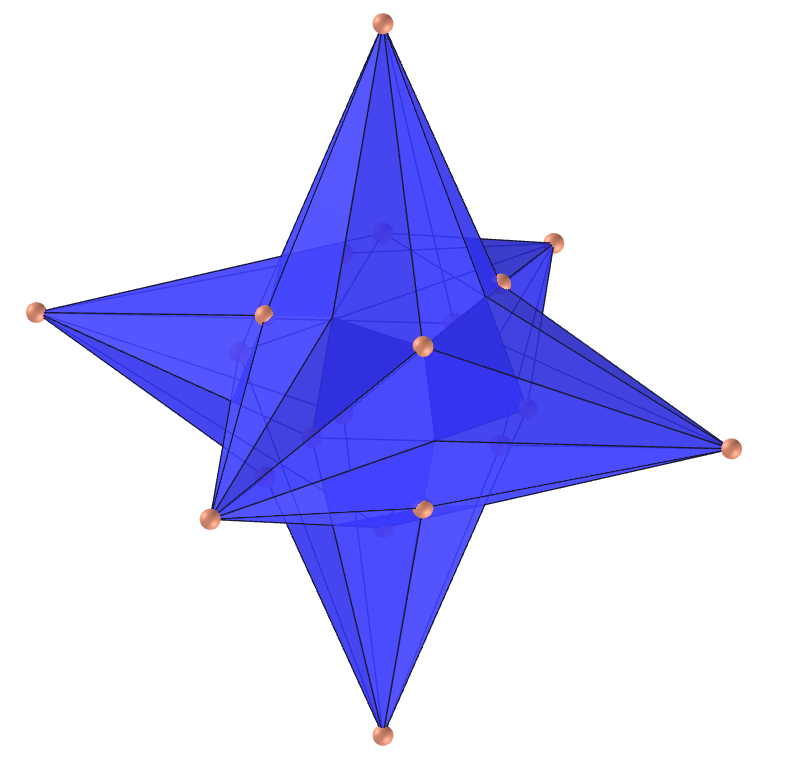
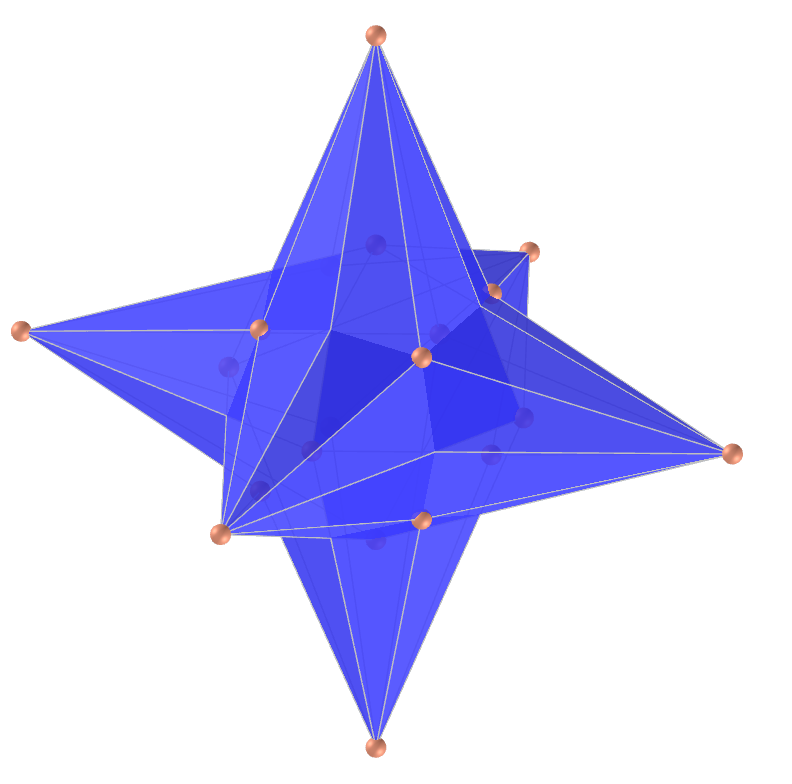
update

diff --git a/vr/medial_deltoidal_hexecontahedron.htm b/vr/medial_deltoidal_hexecontahedron.htm
@@ -57,6 +57,23 @@
 			<a-sphere mixin='esfera mtl9' position='0.6708204 1.0854102 -0.4145899'></a-sphere>
 			<a-sphere mixin='esfera mtl9' position='0.6708204 -1.0854102 0.4145899'></a-sphere>
 			<a-sphere mixin='esfera mtl9' position='0.6708204 -1.0854102 -0.4145899'></a-sphere>
+			<a-sphere mixin='esfera mtl9' position='-0.6708204 1.0854102 0.4145899'></a-sphere>
+			<a-sphere mixin='esfera mtl9' position='-0.6708204 1.0854102 -0.4145899'></a-sphere>
+			<a-sphere mixin='esfera mtl9' position='-0.6708204 -1.0854102 0.4145899'></a-sphere>
+			<a-sphere mixin='esfera mtl9' position='-0.6708204 -1.0854102 -0.4145899'></a-sphere>
+			<a-sphere mixin='esfera mtl9' position='0.6496271 0.0 1.0511187'></a-sphere>
+			<a-sphere mixin='esfera mtl9' position='0.6496271 0.0 -1.0511187'></a-sphere>
+			<a-sphere mixin='esfera mtl9' position='-0.6496271 0.0 1.0511187'></a-sphere>
+			<a-sphere mixin='esfera mtl9' position='-0.6496271 0.0 -1.0511187'></a-sphere>
+			<a-sphere mixin='esfera mtl9' position='1.0511187 0.6496271 0.0'></a-sphere>
+			<a-sphere mixin='esfera mtl9' position='1.0511187 -0.6496271 0.0'></a-sphere>
+			<a-sphere mixin='esfera mtl9' position='-1.0511187 0.6496271 0.0'></a-sphere>
+			<a-sphere mixin='esfera mtl9' position='-1.0511187 -0.6496271 0.0'></a-sphere>
+			<a-sphere mixin='esfera mtl9' position='0.0 1.0511187 0.6496271'></a-sphere>
+			<a-sphere mixin='esfera mtl9' position='0.0 1.0511187 -0.6496271'></a-sphere>
+			<a-sphere mixin='esfera mtl9' position='0.0 -1.0511187 0.6496271'></a-sphere>
+			<a-sphere mixin='esfera mtl9' position='0.0 -1.0511187 -0.6496271'></a-sphere>
+			<a-sphere mixin='esfera mtl9' position='0.0 0.0 1.3416408'></a-sphere>
 		</a-entity>
 		
 		<a-entity camera="fov:1; near:1;" orbit-controls="target: 0 0 0; maxPolarAngle: 90; minDistance: 0.5; initialPosition: 100 300 650"></a-entity>

diff --git a/selfintersect.html b/selfintersect.html
@@ -1528,6 +1528,23 @@
 			<a-sphere mixin='esfera mtl9' position='0.6708204 1.0854102 -0.4145899'></a-sphere>
 			<a-sphere mixin='esfera mtl9' position='0.6708204 -1.0854102 0.4145899'></a-sphere>
 			<a-sphere mixin='esfera mtl9' position='0.6708204 -1.0854102 -0.4145899'></a-sphere>
+			<a-sphere mixin='esfera mtl9' position='-0.6708204 1.0854102 0.4145899'></a-sphere>
+			<a-sphere mixin='esfera mtl9' position='-0.6708204 1.0854102 -0.4145899'></a-sphere>
+			<a-sphere mixin='esfera mtl9' position='-0.6708204 -1.0854102 0.4145899'></a-sphere>
+			<a-sphere mixin='esfera mtl9' position='-0.6708204 -1.0854102 -0.4145899'></a-sphere>
+			<a-sphere mixin='esfera mtl9' position='0.6496271 0.0 1.0511187'></a-sphere>
+			<a-sphere mixin='esfera mtl9' position='0.6496271 0.0 -1.0511187'></a-sphere>
+			<a-sphere mixin='esfera mtl9' position='-0.6496271 0.0 1.0511187'></a-sphere>
+			<a-sphere mixin='esfera mtl9' position='-0.6496271 0.0 -1.0511187'></a-sphere>
+			<a-sphere mixin='esfera mtl9' position='1.0511187 0.6496271 0.0'></a-sphere>
+			<a-sphere mixin='esfera mtl9' position='1.0511187 -0.6496271 0.0'></a-sphere>
+			<a-sphere mixin='esfera mtl9' position='-1.0511187 0.6496271 0.0'></a-sphere>
+			<a-sphere mixin='esfera mtl9' position='-1.0511187 -0.6496271 0.0'></a-sphere>
+			<a-sphere mixin='esfera mtl9' position='0.0 1.0511187 0.6496271'></a-sphere>
+			<a-sphere mixin='esfera mtl9' position='0.0 1.0511187 -0.6496271'></a-sphere>
+			<a-sphere mixin='esfera mtl9' position='0.0 -1.0511187 0.6496271'></a-sphere>
+			<a-sphere mixin='esfera mtl9' position='0.0 -1.0511187 -0.6496271'></a-sphere>
+			<a-sphere mixin='esfera mtl9' position='0.0 0.0 1.3416408'></a-sphere>
 		</a-entity>
 	</a-marker>
 	
